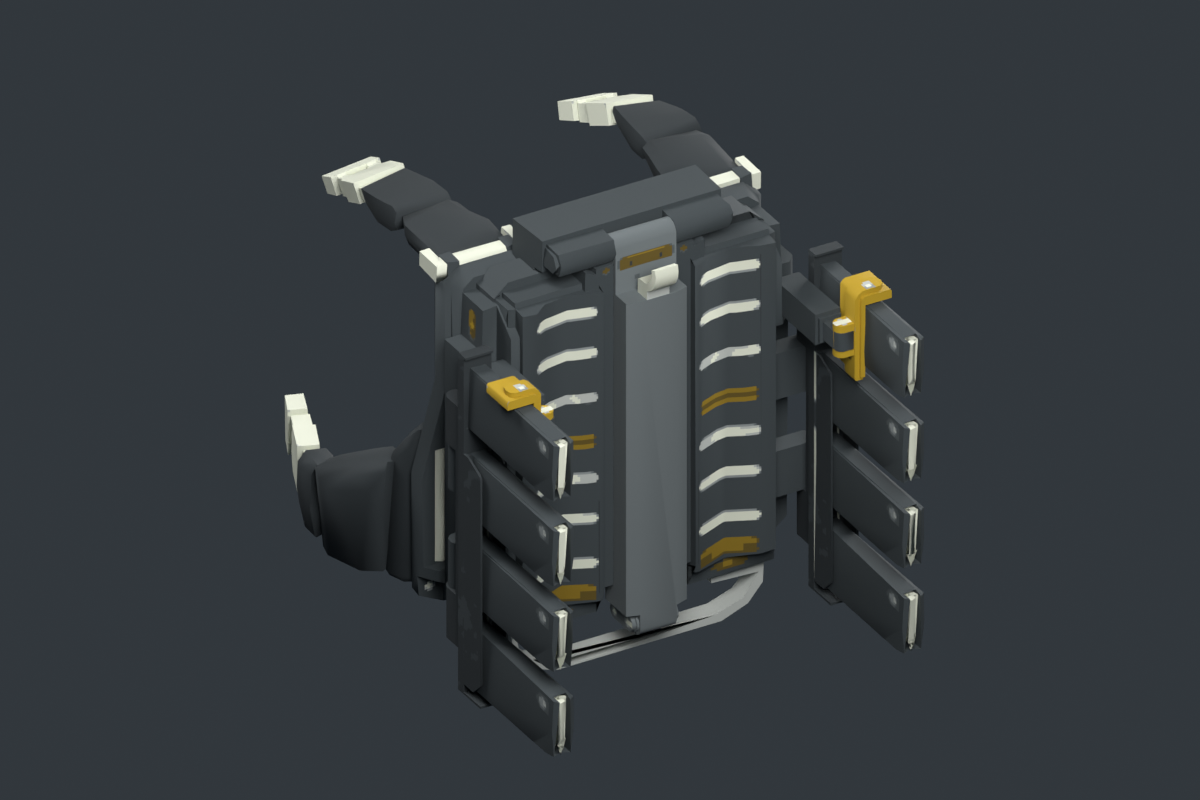
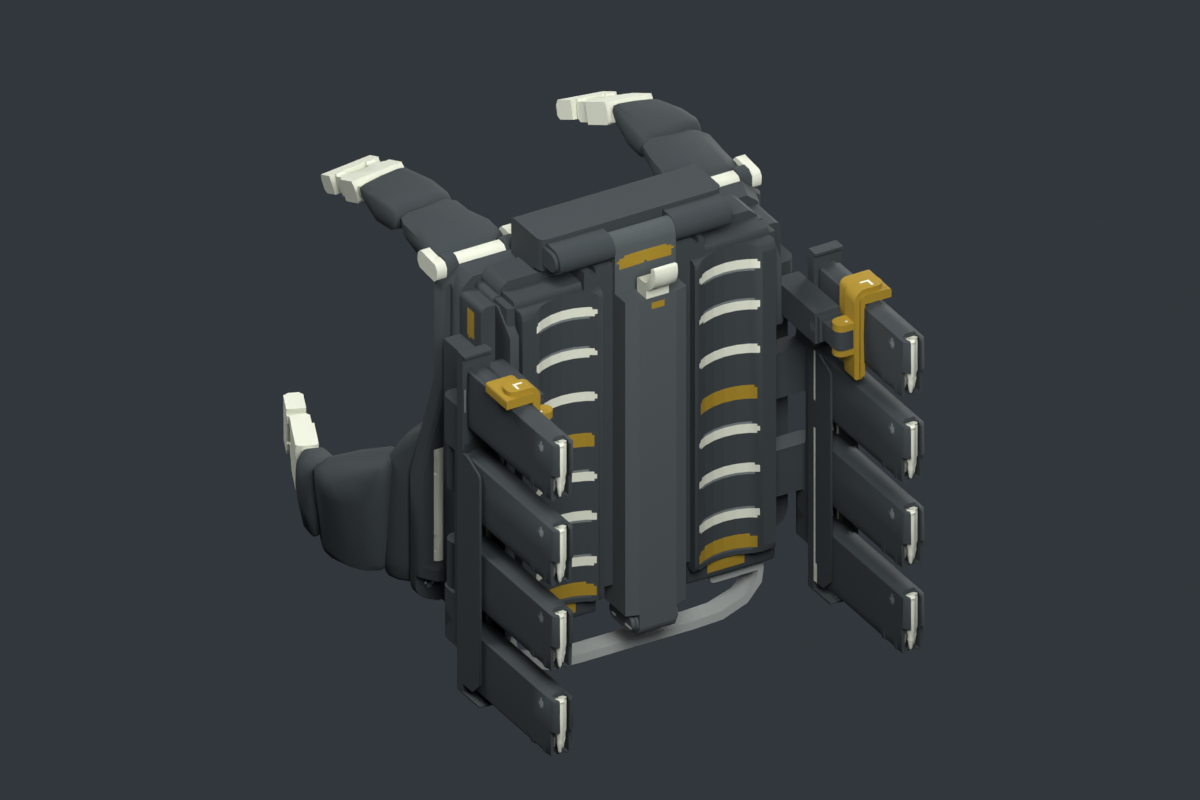
Restore Guard Dog mesh details and clean planar surfaces

diff --git a/art/models/机枪护卫犬/说明.md b/art/models/机枪护卫犬/说明.md
@@ -7,17 +7,6 @@
 
 所有工程可直接用 Blockbench 打开，贴图已内嵌，外置副本位于 `贴图`。预览来自最终 Blockbench 工程导出的模型。
 
-保留原版机枪型轮廓，采用清理后的像素配色，合并共面网格。使用 16 模型单位对应 1 格的比例。保留 `gun_mount`、`drone_attach`、`attach_mag`、`attach_muzzle` 定位组，供后续挂载使用。
+保留原版机枪型轮廓，采用清理后的像素配色。尾部格栅、镜头面板、枪口、背包托架和推进器保留可见的源网格结构，合并共面且贴图一致的区域。整套模型由源网格的 47,368 个三角面整理至 45,721 个。使用 16 模型单位对应 1 格的比例。保留 `gun_mount`、`drone_attach`、`attach_mag`、`attach_muzzle` 定位组，供后续挂载使用。
 
 本次交付为静态模型。飞行、折叠、停靠及换弹动作和游戏接入尚未制作。组合工程用于检查武器装配，不表示背包停靠姿态。
-
-## 模型面数
-
-| 部件 | 三角面 |
-| --- | ---: |
-| 机身 | 6,539 |
-| 武器（含弹匣和枪口） | 1,704 |
-| 背包 | 4,948 |
-| 总计 | 13,191 |
-
-相较首轮模型的 43,890 个三角面减少约 70%。动力筒和背包弧面保留更多曲面分段并使用平滑着色，外壳接缝和板件折边保留硬边。
